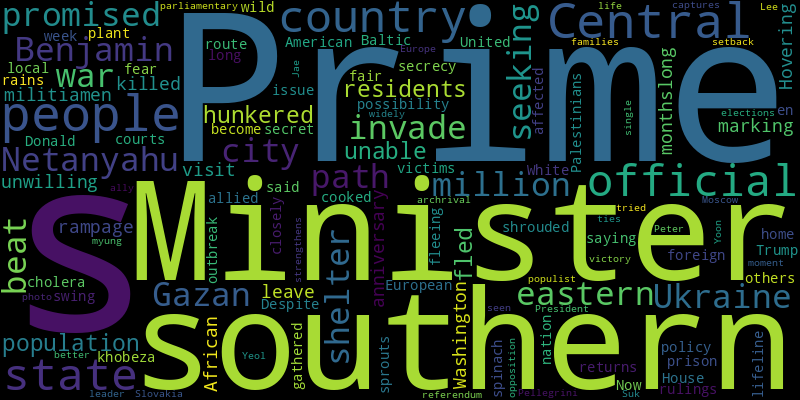
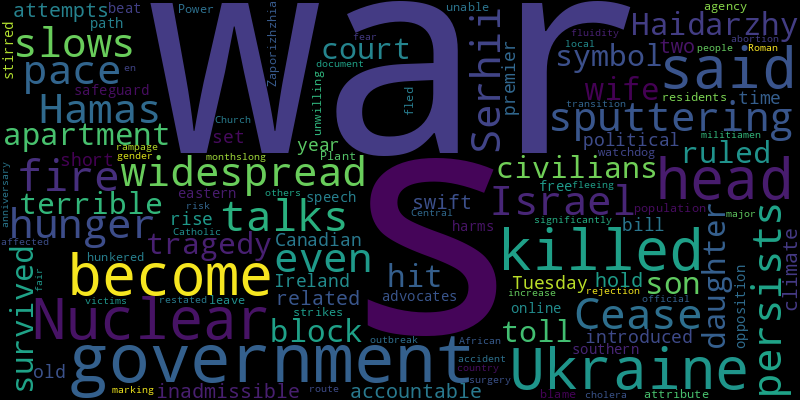
chore(bot): 😂 auto commit

diff --git a/README.md b/README.md
@@ -2,41 +2,41 @@
 Auto RSS New York Times and Generate Word Cloud
 
 ## New York Times Global News
-* Prime Minister Benjamin Netanyahu has promised to invade the southern Gazan city, where more than a million people are seeking shelter.
+* Cease-fire talks are sputtering and widespread hunger persists, even as the pace of the Israel-Hamas war slows.
+* Serhii Haidarzhy’s wife and son were killed when their apartment block was hit. He and their daughter survived. The tragedy has become a symbol in Ukraine of the war’s terrible toll on civilians.
+* But the court ruled as inadmissible two other climate-related attempts to hold governments accountable.
+* After a swift political rise, the 37-year-old is set to become Ireland’s premier on Tuesday. But his time as head of the government could be short.
+* A bill introduced by the Canadian government to safeguard against online harms has stirred opposition from free speech advocates.
 * As war beat a path through southern and eastern Ukraine, most of the population fled. But other residents have hunkered down, unable — or unwilling — to leave.
-* The Central African country is marking the anniversary of a monthslong rampage by militiamen that killed some 800,000 people.
-* Hovering over a state visit to Washington is the possibility of a swing in American foreign policy if Donald Trump returns to the White House.
-* Despite rulings in European courts saying the Baltic country was home to a secret prison, the issue has been shrouded in official secrecy in a nation closely allied with the United States.
+* The watchdog agency did not attribute blame, but its head said the strikes at the Zaporizhzhia Nuclear Power Plant “significantly increase the risk of a major nuclear accident.”
 * Some of the victims were en route to a fair and others were fleeing for fear of being affected by a cholera outbreak, a local official said.
-* Palestinians have long gathered and cooked khobeza, a spinach-like wild plant that sprouts after rains. Now, it has become a lifeline.
-* This week’s parliamentary elections are widely seen as a referendum on both President Yoon Suk Yeol and his archrival, Lee Jae-myung, the opposition leader.
-* A single photo captures a moment of setback for families who had tried for a better life.
-* The victory for Peter Pellegrini, an ally of Slovakia’s populist prime minister, strengthens Central Europe’s ties to Moscow.
+* The Central African country is marking the anniversary of a monthslong rampage by militiamen that killed some 800,000 people.
+* The document restated the Roman Catholic Church’s rejection of abortion, gender fluidity and transition surgery.
 
 ![Global](./global.png)
 ## New York Times United States News
-* Millions of people making plans to be in the path of the solar eclipse on Monday know it will be awe-inspiring. What is that feeling?
-* The center-left Jewish lobby group has lost some staff members and donors who worry the organization has not been quick enough to call for a cease-fire and is alienating younger generations.
-* The victims, the history, the void. Residents reflect on their collective pain, and the city’s strength.
-* Pro-Palestinian demonstrations surrounded an appearance at a new research center named after the former secretary of state and presidential nominee at her alma mater.
-* Workers are unloading the 4,700 containers on the ship, a crucial step in moving the vessel and reopening the channel in the Port of Baltimore.
-* Officials said that 10 million borrowers could see debt relief of at least $5,000. The plan, set to be announced in Wisconsin, could help rally support among young voters.
-* Taiwan Semiconductor Manufacturing Company plans to build an additional factory and upgrade another planned facility in Phoenix with the federal grants.
-* After Wisconsin’s Supreme Court ordered new legislative maps, Democrats are gearing up to try to flip the State Assembly — and give President Biden a boost.
-* The bipartisan group says the point is not about Donald J. Trump’s desire to invoke the Insurrection Act, but rather that current law gives all presidents too much unfettered power.
-* At rallies, Donald Trump frequently laments migrants from a list of countries from Africa, Asia and the Middle East as he stokes fears around the surge at the border.
+* The winner of the most hallowed event in professional golf gets to design the menu (and pay) for the next year’s champions dinner. Jon Rahm, the 2023 winner, supplied a recipe from his grandmother.
+* Though the Florida Supreme Court allowed a ballot question on expanding abortion rights, it also laid out a way for anti-abortion groups to challenge such an expansion.
+* Jennifer and James Crumbley, whose son killed four people, each face up to 15 years in prison. In memos last week, prosecutors revealed that they had asked for leniency.
+* Dozens of correctional workers urged Gov. Mike Parson to commute the death sentence of Brian Dorsey, who pleaded guilty in the murders of Ben and Sarah Bonnie.
+* In a letter to Republicans, the far-right lawmaker from Georgia said the speaker had presided over a “complete and total surrender” to Democrats and President Biden, and must change course or be unseated.
+* Jared Kushner’s Affinity Partners has invested more than $1.2 billion, much of it in firms abroad, drawing new scrutiny as his father-in-law, Donald Trump, again seeks the presidency.
+* With his video statement on Monday, Donald Trump laid bare how faulty a messenger he had always been for the anti-abortion cause.
+* The filing was the main submission from Jack Smith, the special counsel prosecuting the former president. The case will be argued on April 25.
+* The proposal would affect nearly 30 million people and would target groups that have had hardships in repaying their loans.
+* An enthusiasm gap among young voters and anger on campuses over Gaza has some Democrats wary.
 
 ![US](./usnews.png)
 ## New York Times Asia News
+* Taiwan’s semiconductor giant, TSMC, is quickly remaking a farm town in Japan into Asia’s next hub of chip manufacturing with enormous government support.
+* Also, the Vatican said gender changes amount to an affront.
+* One of the Army’s most highly decorated servicemen, he received the military’s supreme tribute for valor, for his actions in the Korean War — 71 years after the fact.
 * Treasury Secretary Janet L. Yellen was warmly received in China, but it was evident that the level of trust between the two sides does not run deep.
-* The Netflix series showcases one of the country’s most successful works of culture, a rare cultural export. Instead, social media is condemning it.
+* The Netflix series showcases one of the country’s most successful works of culture. Instead of demonstrating pride, social media is condemning it.
 * Also, Mexico and Nicaragua severed diplomatic relations with Ecuador.
 * Hovering over a state visit to Washington is the possibility of a swing in American foreign policy if Donald Trump returns to the White House.
 * A single photo captures a moment of setback for families who had tried for a better life.
 * This week’s parliamentary elections are widely seen as a referendum on both President Yoon Suk Yeol and his archrival, Lee Jae-myung, the opposition leader.
 * Beijing’s economic policies threaten American workers, Treasury Secretary Janet L. Yellen told Vice Premier He Lifeng in the southern city of Guangzhou.
-* Global tourism brought a modern economy to the country’s thousand islands. For many Maldivians, the teeming capital beckons.
-* The country’s military rulers have signaled a new wave of detentions and, rights groups say, conditions for existing prisoners have deteriorated.
-* Jang Jin-sung, known for his memoir “Dear Leader,” was accused of rape by a fellow North Korean defector. He sued her and a South Korean broadcaster and won.
 
 ![Asian](./asian.png)
